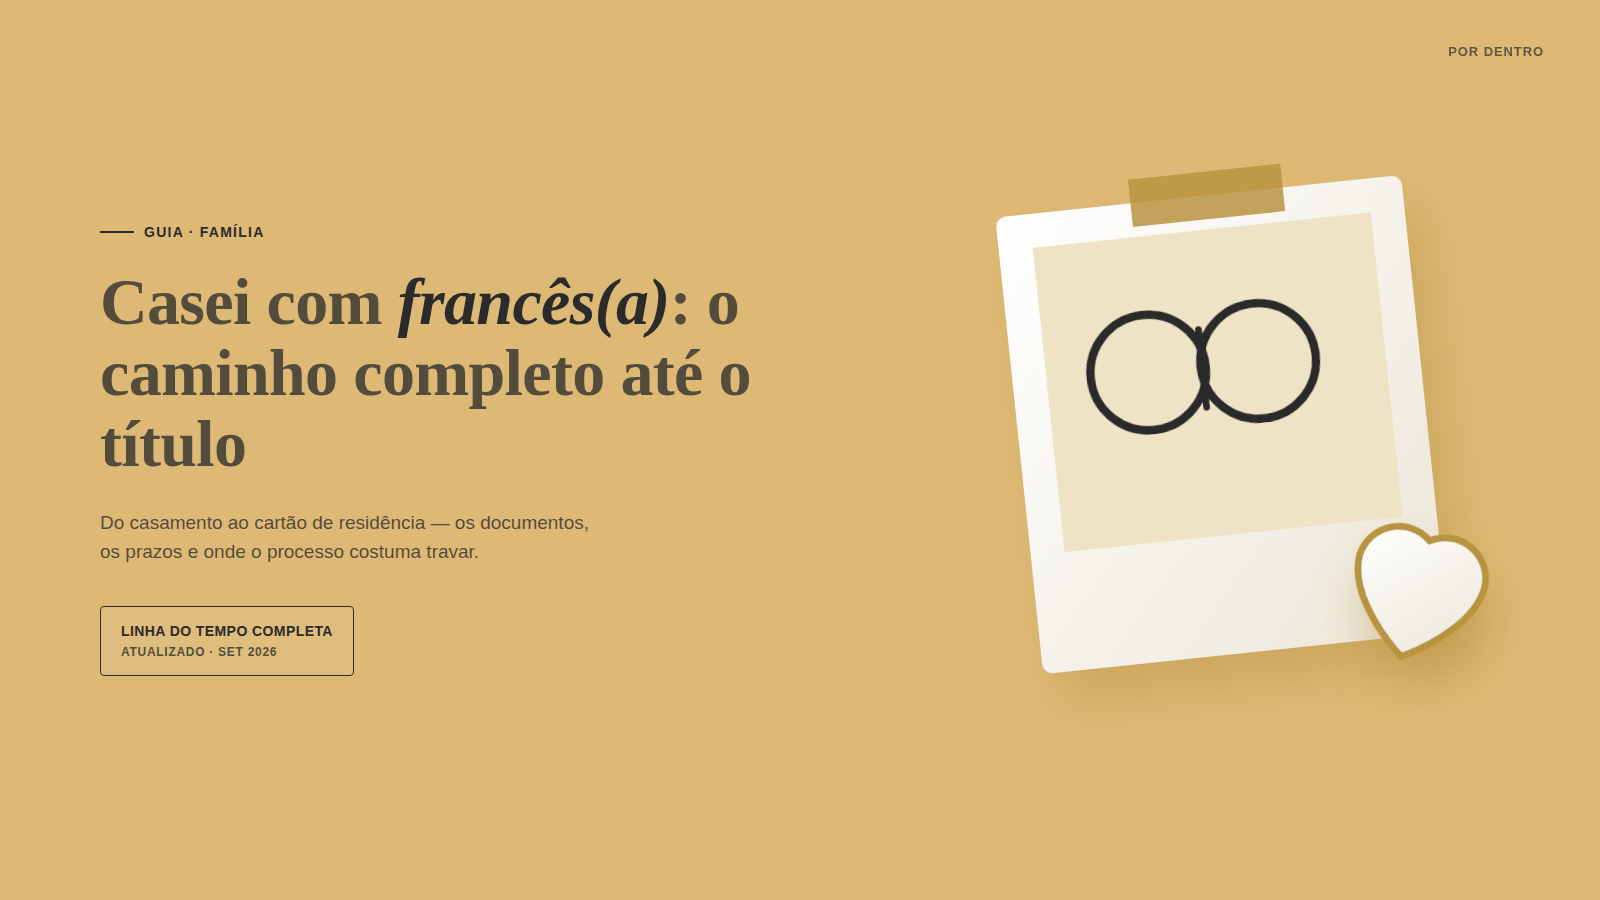
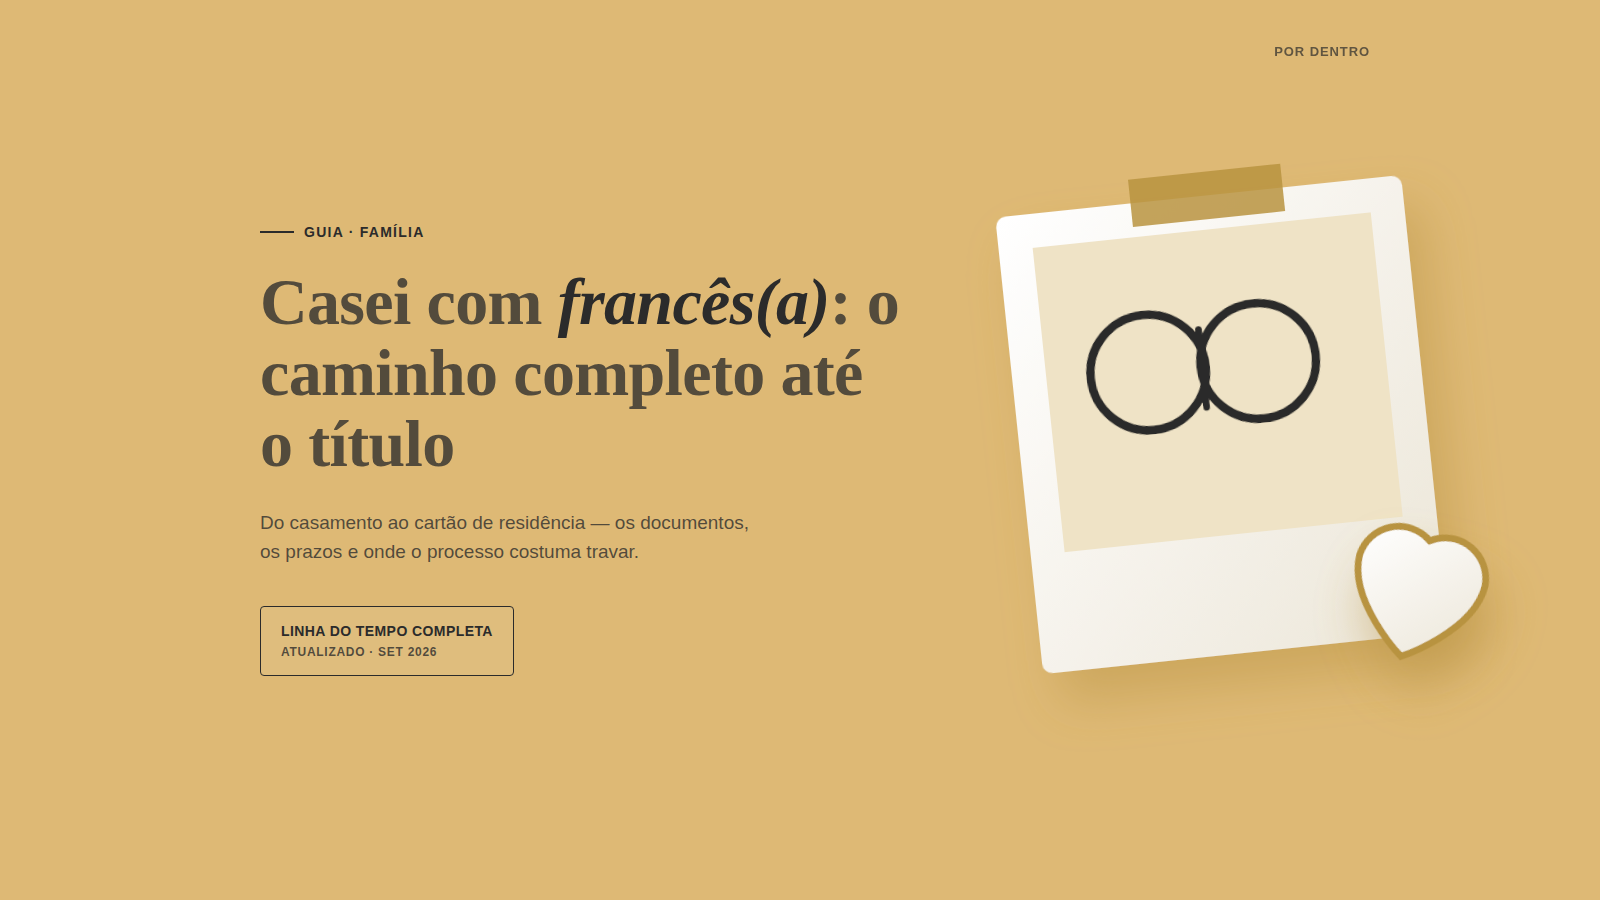
Corrigir texto cortado nas capas no recorte 4:3 do card
O card do blog (.card .img-slot, usado em /artigos e no .blog-banner
abaixo de 700px) sempre recorta a capa pra 4:3 com object-fit:cover
centrado — em qualquer largura de tela, não só mobile — cortando 200px
de cada lado de uma imagem 1600px. O template posicionava o texto a
partir de 100px da esquerda e a marca "Por Dentro" a 56px da direita,
ambos dentro da faixa cortada.

Move a zona seguraona de texto pra 260px da esquerda (e a marca pra
230px da direita), atualiza a documentação do template, e regenera as
16 capas afetadas. Validado simulando o recorte real do .img-slot
antes e depois da correção.

Claude-Session: https://claude.ai/code/session_01U69hrwsPjnJecYxN3fcnGU

diff --git a/assets/templates/blog-cover-template.html b/assets/templates/blog-cover-template.html
@@ -11,10 +11,16 @@
 
   O QUE É
   Gera as imagens de capa dos artigos (content/posts.json → campo "image").
-  Formato 1600×900 (16:9) — mesma proporção usada em .article-hero e
-  .blog-banner no site (ver assets/css/style.css). O card de listagem em
-  /artigos usa .img-slot em 4:3, que corta as laterais: por isso o texto
-  fica centrado, longe das bordas, e só o motivo/ilustração pode sangrar.
+  Formato 1600×900 (16:9) — mesma proporção usada em .article-hero, mas
+  o CARD (.card .img-slot, usado em /artigos e no .blog-banner abaixo de
+  700px) SEMPRE recorta pra 4:3 com object-fit:cover centrado — em TODAS
+  as larguras de tela, não só mobile. Isso corta 200px de cada lado de
+  uma imagem 1600px (25% da largura some, 12,5% de cada lado). ZONA
+  SEGURA DE TEXTO: todo conteúdo de leitura (eyebrow, título, descrição,
+  quadro) tem que começar a partir de x≈260px — nunca mais perto da
+  borda esquerda que isso, mesmo que pareça "centrado, com sobra" no
+  preview 16:9 cheio. Só o ícone/motivo, puramente decorativo, pode
+  sangrar até a borda.
 
   POR QUE FUNDO CHAPADO (não off-white)
   O site inteiro usa off-white (#F4F1EC) como fundo. Uma capa no mesmo
@@ -104,7 +110,7 @@
   .cover-inner{
     position:relative;
     z-index:2;
-    padding:0 0 0 100px;
+    padding:0 0 0 260px; /* zona segura do recorte 4:3 do card — ver comentário no topo */
     max-width:900px;
   }
 
@@ -174,7 +180,7 @@
 
   .brandmark{
     position:absolute;
-    top:44px; right:56px;
+    top:44px; right:230px; /* zona segura do recorte 4:3 do card — ver comentário no topo */
     z-index:2;
     font-family:var(--font-body); font-weight:700; font-size:13px;
     letter-spacing:.07em; text-transform:uppercase;
